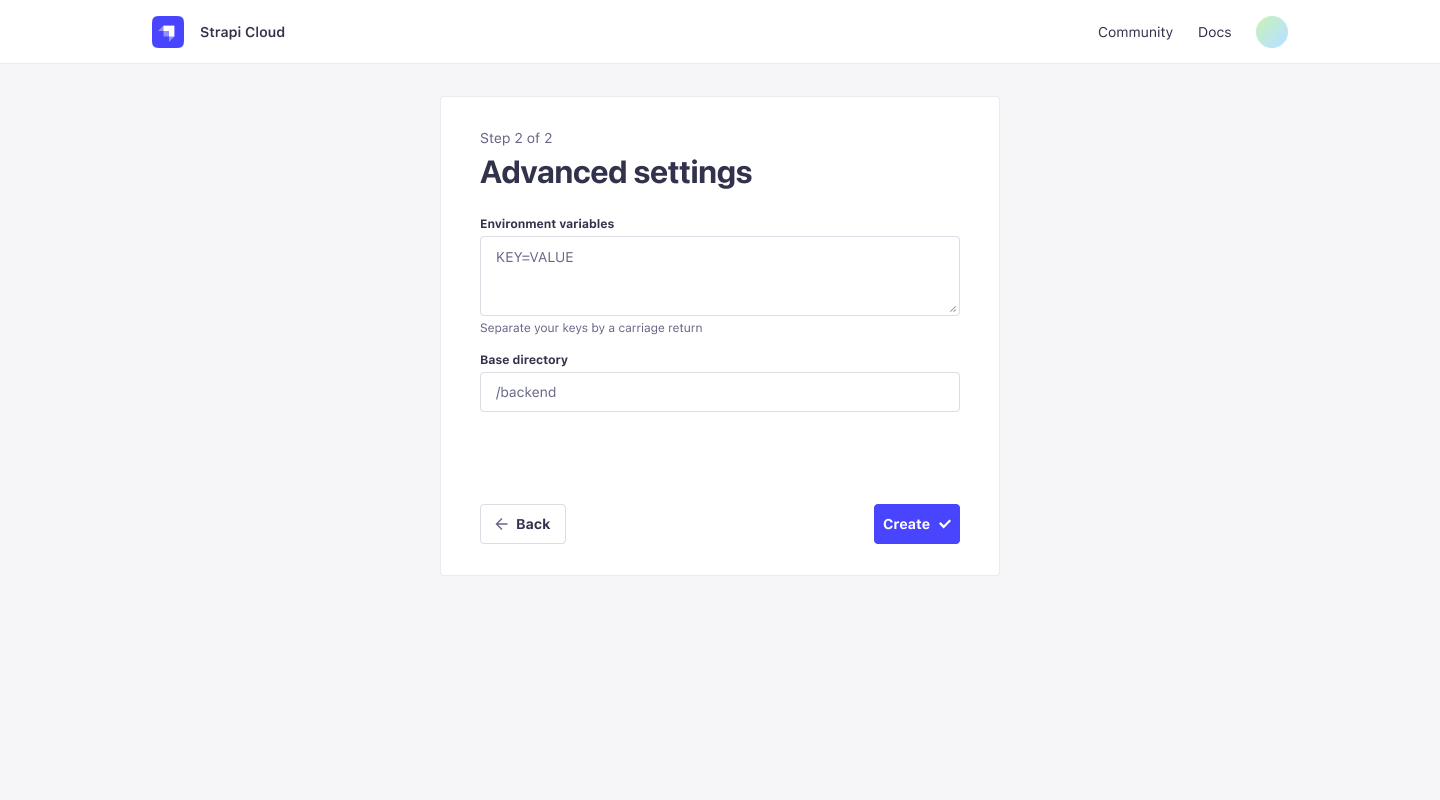
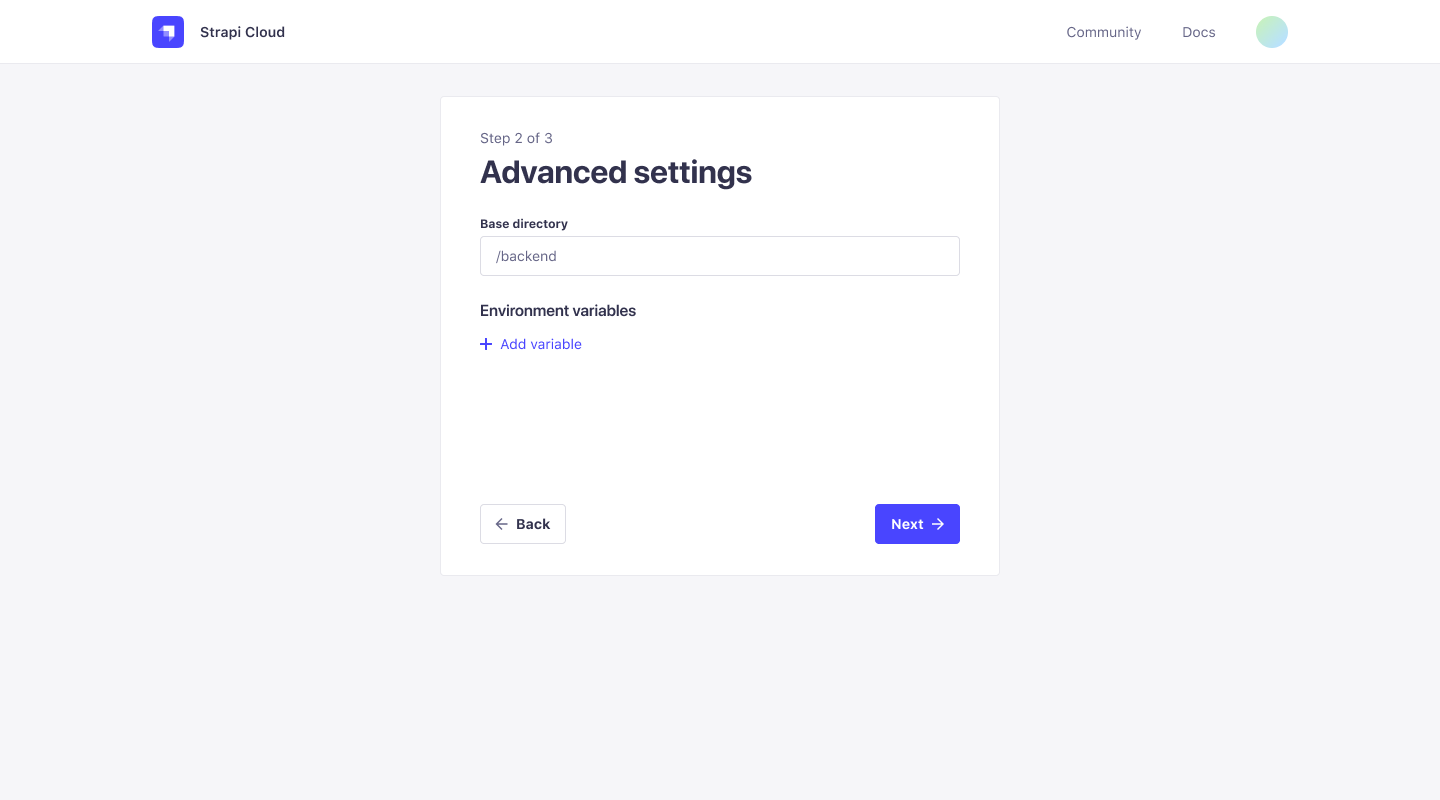
added project content

diff --git a/docusaurus/docs/cloud/projects/overview.md b/docusaurus/docs/cloud/projects/overview.md
@@ -22,9 +22,20 @@ Each project card displays the following information:
 
 From the **Projects** page, click on any project card to access that project's details page.
 
-The project details page displays the following tabs: **Overview, **Deploys**, **Activity**, and **Settings**.
+The project details page displays the following tabs: **Overview**, **Deploys**, **Activity**, and [**Settings**](./settings/).
 
 ### Overview
+
+The **Overview** tab displays a high detail view of the project, including its configuration, usage, and deployment history.
+
+![Project overview](/img/assets/cloud/overview.png)
+
+From this tab you can:
+
+* **Trigger deploy**: Click the **Trigger deploy** button to trigger a new deployment
+* **Visit App**: Click the **Visit App** button to access the application
+* Quickly view project [**Usage**](./setting#usage)
+* Quickly view project [**Deploys**](#deploys)
 
 ### Deploys
 
@@ -53,6 +64,61 @@ Each card displays the following information:
     * For **Deploy failed** status, you can:
         * **Download error logs**
 
-From this page you can also trigger a new deployment and access the application using the corresponding buttons.
+From this page you can also trigger a new deployment, cancel a pending deployment, and click on any deployment to view additional details.
+
+#### Deployment details
+
+From the **Deploys** tab, click on any deployment card to view additional details.
+
+![Deployment details](/img/assets/cloud/deploy_logs.png)
+
+The deployment details page displays the following information:
+
+* **Status**: Whether the project is **Building**, **Deploying**, **Done**, **Cancelled**, **Build failed**, or **Deploy failed**.
+* **Triggered**: When the deployment was triggered and the duration.
+* **Deployed In**: The time it took to deploy the project.
+* **Commit**: The commit used for this deployment. Click the commit SHA to view the commit on GitHub.
+* **Branch**: The branch used for this deployment.
+* **Logs**: The Build, Deploy, and Runtime logs of the deployment. Click the **copy logs** button to copy the log contents.
 
 ### Activity
+
+The **Activity** tab provides a searchable and filterable display of all activities performed by users of the Strapi application.
+
+<!--insert screenshot -->
+
+For each log item the following information is displayed:
+
+* **Action**: The type of action performed by the user. For example `create` or `update`.
+* **Response Status**: The HTTP status code returned by the server for that action.
+* **Path**: The path of the request.
+* **Date**: The date and time of the action.
+* **User**: The user who performed the action.
+* **Details**: Displays a modal with more details about the action. For example the User IP address, the request body, or the response body.
+
+#### Filtering logs
+
+All logs are displayed by default, in reverse chronological order. You can filter the logs by:
+
+* **Action**: Select the type of action to filter by. For example `create` or `update`.
+* **User**: Select the user to filter by.
+* **Date**: Select a date (range) to filter by.
+* **Time**: Select a time (range) to filter by.
+* **+Add Filter**: Create a custom filter by selecting a field and a value.
+
+<!--
+### Creating a custom filter
+WiP
+-->
+
+#### Searching logs
+
+Click the **Search** icon to search for a specific log. The search is performed on all log fields.
+
+<!--insert screenshot -->
+
+#### Log details
+
+For any log item, click the **Details** icon to display a modal with more details about that action.
+
+<!--insert screenshot -->

diff --git a/docusaurus/docs/cloud/projects/settings.md b/docusaurus/docs/cloud/projects/settings.md
@@ -7,6 +7,8 @@ canonicalUrl: https://docs.strapi.io/cloud/projects/settings.html
 
 # Project Settings
 
+The **Project Settings** page enables you to manage the configuration and settings for this project. It has the following tabs:
+
 ## General
 
 The **General** tab enables you to edit the following details for the project:
@@ -21,6 +23,22 @@ The **General** tab enables you to edit the following details for the project:
 
 ## Variables
 
-## Billing
+The **Variables** tab enables you to set and manage [environment variables](/dev-docs/configurations/environment/) for the project. These variables are available to your Strapi app at runtime.
 
-## Invoices
+![Project variables](/img/assets/cloud/settings_variables.png)
+
+## Plans & Billing
+
+The **Plans & Billing** tab enables you to manage your project's billing and subscription plan. You can view the details of your current plan, along with current and previous invoices, and upgrade or downgrade your plan.
+
+![Project plans & billing](/img/assets/cloud/settings_billing.png)
+
+## Usage
+
+The **Usage** tab displays the current usage of the project, based on the limits of the current billing plan. 
+
+This includes the number of **Database Entries**, amount of **Database Storage**, and **API Bandwidth** used. If you have exceeded, or are approaching, the limits of your current plan, you will see a warning message.
+
+You can filter the usage according to a desired time period.
+
+![Project usage](/img/assets/cloud/settings_usage.png)

diff --git a/docusaurus/docs/cloud/getting-started/deployment.md b/docusaurus/docs/cloud/getting-started/deployment.md
@@ -56,8 +56,8 @@ Importing data from an existing Strapi application and data backups for a Strapi
     ![Project Setup](/img/assets/cloud/setup.png)
 
 4. (**Optional**) Select **Show Advanced Settings** to configure the following options:
-    * [**Environment variables**](/dev-docs/configurations/environment.md): Environment variables are used to configure your Strapi app.
     * **Base directory**: The directory where your Strapi app is located in the repository. This is useful if you have multiple Strapi apps in the same repository or if you have a monorepo.
+    * [**Environment variables**](/dev-docs/configurations/environment/): Environment variables are used to configure your Strapi app. You can add environment variables to your Strapi Cloud project by clicking **Add Environment Variable**. You can also add environment variables to your Strapi app by adding a `.env` file to the root of your Strapi app directory. The environment variables defined in the `.env` file will be used by Strapi Cloud.
 
     ![Advanced Setup](/img/assets/cloud/advanced.png)
 
